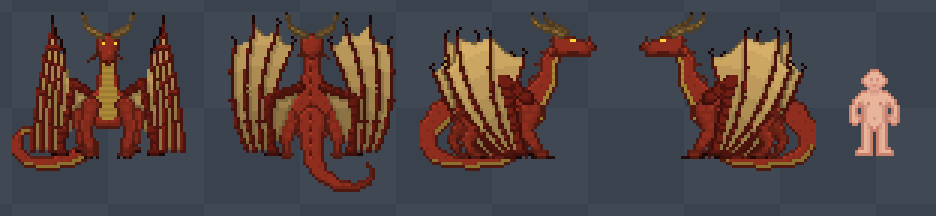
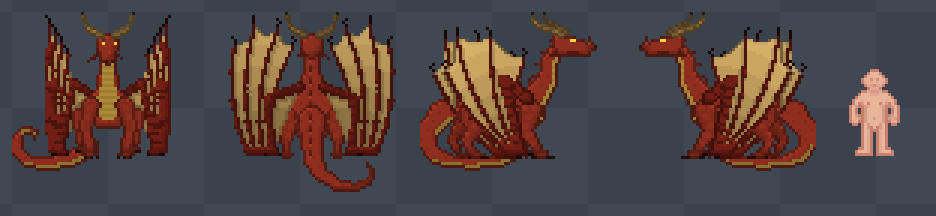
Fan SkyWing wing fingers out from the hand in front and side views
- Front and side views: knuckles cluster right at the wing's hand (still on the floor and
  outside the forearm), and a short hand bone joins every knuckle to the hand, so each finger
  visibly grows from the hand and fans out from there.
- Front view fingertips spread into a narrow fan so the fingers still separate higher up.

diff --git a/Tools/_WoF/skywing_sprites.js b/Tools/_WoF/skywing_sprites.js
@@ -340,6 +340,7 @@ function wingShape(spec, dx = 0, dy = 0) {
   bone.capsule(...sh, rU, ...elbow, rE);                // upper arm
   bone.capsule(...elbow, rE, ...palm, rW);              // forearm
   bone.ellipse(palm[0], palm[1], 2.4, 1.5);             // hand on the ground
+  for (const k of knuckles) bone.capsule(...palm, 1.15, ...k, 1);  // hand bones: every finger connects to the hand
   paths.forEach((pts, i) => {
     const rad = [0.82, 0.78, 0.72, 0.66, 0.6];
     for (let j = 0; j < 4; j++) bone.capsule(...pts[j], rad[j], ...pts[j + 1], rad[j + 1]); // finger segments
@@ -352,12 +353,12 @@ function wingShape(spec, dx = 0, dy = 0) {
   return { bone, mem, claws, palm, segs, arm, joints };
 }
 // Side view: the hand rests just behind the near front paw; the elbow sits on top of the back.
-const WING_E = { lead: 0.6, sh: [36, 29], elbow: [28, 22.5], palm: [34, 46.8], fan: [[70, 32], [63, 41], [57, 45], [52, 37]] };
+const WING_E = { lead: 0.6, knuckle: 1, sh: [36, 29], elbow: [28, 22.5], palm: [34, 46.8], fan: [[70, 32], [63, 41], [57, 45], [52, 37]] };
 // Front/back views (left wing; the right one is mirrored): the hand rests outside the legs.
 // Front view: the folded wings are seen almost edge-on, as narrow upright bundles just outside the shoulders and
 // front legs. The fingers rise nearly straight from the wrist on the ground to about head height, claws stepped
 // one above the other, with thin slivers of membrane between them.
-const WING_S = { bend: 3, spread: 3, armWeb: true, knuckle: 3, armRadii: [1.6, 1.4, 1.2], sh: [25.5, 27], elbow: [20.5, 23], palm: [16.5, 46.4], tips: [[10.5, 4.5], [13.8, 8], [17, 11.5], [20, 15]] };
+const WING_S = { bend: 3, spread: 3, lead: 0.6, armWeb: true, knuckle: 1, armRadii: [1.6, 1.4, 1.2], sh: [25.5, 27], elbow: [20.5, 23], palm: [16.5, 46.4], tips: [[7.5, 5], [11.5, 7.5], [15.8, 10.5], [20, 14.5]] };
 // Back view: the wings open into a wide V. The wrist rests on the ground right beside the hind leg, the shortest
 // finger stands nearly straight up next to the body, and the longer fingers fan outward to the top corners with
 // membrane across the whole fan. A short arm runs from the shoulder out to the elbow and down to the wrist.
